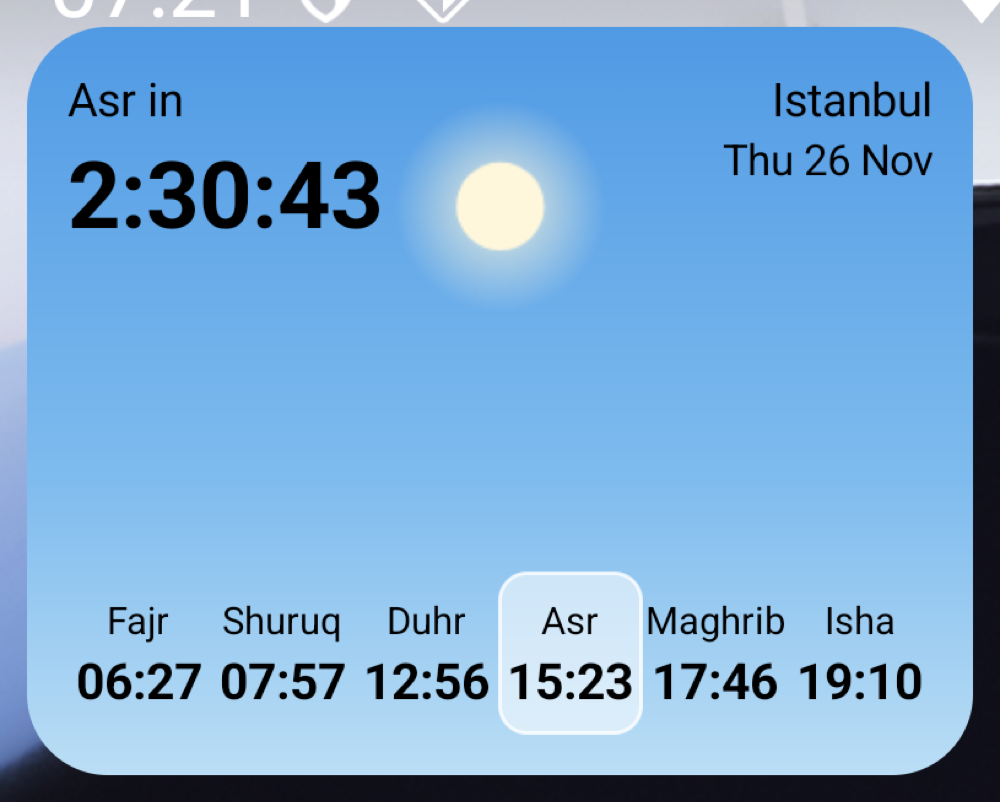
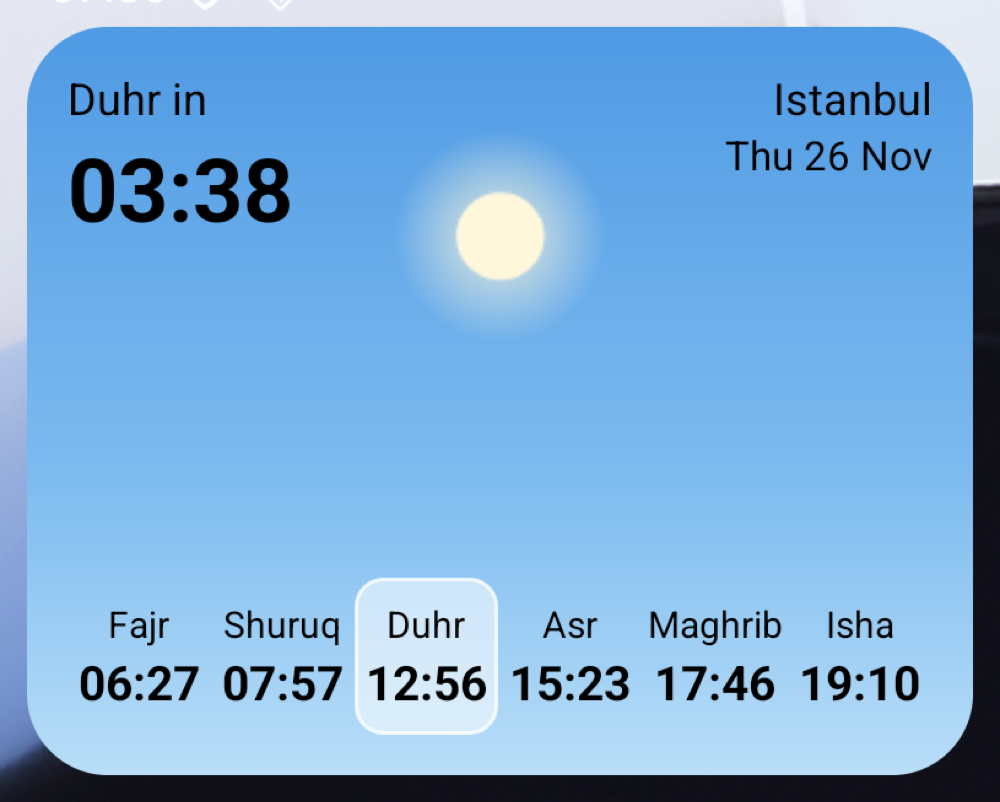
Lower the wide and medium sun a little (MEL-354) [record screenshots]
Horizon 0.52 → 0.61 and noon 0.24 → 0.28, still above the prayer row.

diff --git a/android/app/src/main/java/com/meltuhamy/londonsalah/widget/SkyPainter.kt b/android/app/src/main/java/com/meltuhamy/londonsalah/widget/SkyPainter.kt
@@ -42,21 +42,32 @@ object SkyPainter {
     )
 
     internal const val DEFAULT_SUN_HORIZON_Y = 0.9f
-    private const val SUN_NOON_Y = 0.24
+    internal const val DEFAULT_SUN_NOON_Y = 0.24
+
+    /** Wide (and iOS medium) widgets: a little lower at noon, still above the prayer row at sunset. */
+    internal const val WIDE_SUN_NOON_Y = 0.28
+    internal const val WIDE_SUN_HORIZON_Y = 0.61f
 
     /**
      * Maps the sun's vertical fraction from `WidgetSky`'s [0.24, 0.9] arc so
      * widgets with a bottom prayer row keep the rising and setting sun above it.
+     * [sunNoonY] and [sunHorizonY] are the mapped positions at midday and at
+     * the horizon; the default values leave the raw arc unchanged.
      */
-    internal fun sunY(rawY: Double, sunHorizonY: Float = DEFAULT_SUN_HORIZON_Y): Double =
-        if (sunHorizonY == DEFAULT_SUN_HORIZON_Y) rawY
-        else SUN_NOON_Y + (rawY - SUN_NOON_Y) * ((sunHorizonY - SUN_NOON_Y) / (DEFAULT_SUN_HORIZON_Y - SUN_NOON_Y))
+    internal fun sunY(
+        rawY: Double,
+        sunHorizonY: Float = DEFAULT_SUN_HORIZON_Y,
+        sunNoonY: Double = DEFAULT_SUN_NOON_Y
+    ): Double =
+        if (sunHorizonY == DEFAULT_SUN_HORIZON_Y && sunNoonY == DEFAULT_SUN_NOON_Y) rawY
+        else sunNoonY + (rawY - DEFAULT_SUN_NOON_Y) *
+            ((sunHorizonY - sunNoonY) / (DEFAULT_SUN_HORIZON_Y - DEFAULT_SUN_NOON_Y))
 
     /**
      * The sky at `widthDp` x `heightDp`, drawn at up to `density` pixels a dp.
      * `sunDp` is the sun's diameter: smaller on the narrow widgets.
-     * `sunHorizonY` is where the sun sits at sunrise and sunset, as a fraction
-     * of the widget's height (0.9 by default).
+     * `sunHorizonY` / `sunNoonY` are where the sun sits at sunrise/sunset and
+     * at midday, as fractions of the widget's height (0.9 and 0.24 by default).
      */
     fun paint(
         sky: SkyState,
@@ -64,7 +75,8 @@ object SkyPainter {
         heightDp: Int,
         density: Float,
         sunDp: Float,
-        sunHorizonY: Float = DEFAULT_SUN_HORIZON_Y
+        sunHorizonY: Float = DEFAULT_SUN_HORIZON_Y,
+        sunNoonY: Double = DEFAULT_SUN_NOON_Y
     ): Bitmap {
         val w = max(widthDp, 1)
         val h = max(heightDp, 1)
@@ -157,7 +169,7 @@ object SkyPainter {
         // Maghrib, though the arc keeps it 45 minutes either side.
         sky.sun?.takeIf { light.sunOn > 0 }?.let { sun ->
             val cx = (sun.x * width).toFloat()
-            val cy = (sunY(sun.y, sunHorizonY) * height).toFloat()
+            val cy = (sunY(sun.y, sunHorizonY, sunNoonY) * height).toFloat()
             val radius = sunDp / 2 * scale
             val base = colour(sun.colour)
             val on = light.sunOn.toFloat()

diff --git a/android/app/src/test/java/com/meltuhamy/londonsalah/widget/WidgetRenderTest.kt b/android/app/src/test/java/com/meltuhamy/londonsalah/widget/WidgetRenderTest.kt
@@ -341,19 +341,21 @@ class WidgetRenderTest {
 
     @Test
     fun `the wide widget keeps the setting sun above the bottom prayer row`() {
-        // Midday is unchanged; the horizon moves from 0.90 to 0.52 on WIDE only.
-        assertEquals(0.24, SkyPainter.sunY(0.24, 0.52f), 1e-6)
-        assertEquals(0.52, SkyPainter.sunY(0.90, 0.52f), 1e-6)
+        // Wide widgets map the raw [0.24, 0.90] arc onto [0.28, 0.61].
+        assertEquals(0.28, SkyPainter.sunY(0.24, SkyPainter.WIDE_SUN_HORIZON_Y, SkyPainter.WIDE_SUN_NOON_Y), 1e-6)
+        assertEquals(0.61, SkyPainter.sunY(0.90, SkyPainter.WIDE_SUN_HORIZON_Y, SkyPainter.WIDE_SUN_NOON_Y), 1e-6)
         assertEquals(0.90, SkyPainter.sunY(0.90), 1e-6)
+        assertEquals(0.24, SkyPainter.sunY(0.24), 1e-6)
 
         val sunset = draw(
             WidgetKind.WIDE, homeScreenSize(WidgetKind.WIDE), sky, nowMillis = PayloadFixture.SUNSET
         ).skyPicture()!!
-        // At SUNSET (x ≈ 0.93), the sun brightens y ≈ 0.53 relative to the left side of the same row,
-        // and no longer sits in the bottom prayer row (y ≈ 0.90).
+        // At SUNSET (x ≈ 0.93), the sun brightens y ≈ 0.61 relative to the left side of the same row,
+        // and no longer sits in the bottom prayer row (y ≈ 0.90). The solid disc
+        // stays above the labels, which start around 75% down.
         val xSun = (sunset.width * 0.93).toInt()
         val xClear = (sunset.width * 0.15).toInt()
-        val ySun = (sunset.height * 0.53).toInt()
+        val ySun = (sunset.height * 0.61).toInt()
         val yBottom = (sunset.height * 0.90).toInt()
         assertTrue(Color.red(sunset.getPixel(xSun, ySun)) > Color.red(sunset.getPixel(xClear, ySun)) + 15)
         assertTrue(

diff --git a/ios/App/PrayerWidgets/PrayerWidgetView.swift b/ios/App/PrayerWidgets/PrayerWidgetView.swift
@@ -35,7 +35,11 @@ struct WidgetBackground: View {
 
     var body: some View {
         if let sky = colors.sky {
-            SkyBackground(sky: sky, sunHorizonY: family == .systemMedium ? 0.52 : 0.9)
+            SkyBackground(
+                sky: sky,
+                sunHorizonY: family == .systemMedium ? 0.61 : 0.9,
+                sunNoonY: family == .systemMedium ? 0.28 : 0.24
+            )
         } else {
             colors.background
         }
@@ -49,6 +53,7 @@ struct WidgetBackground: View {
 struct SkyBackground: View {
     let sky: SkyState
     var sunHorizonY: Double = 0.9
+    var sunNoonY: Double = 0.24
 
     /** Fractions across and down, a radius in points and a strength. */
     private static let stars: [(x: Double, y: Double, r: Double, o: Double)] = [
@@ -134,9 +139,9 @@ struct SkyBackground: View {
                 // The sun at the card's strength: none before Shuruq, fading
                 // after Maghrib, though the arc keeps it 45 minutes either side.
                 if let sun = sky.sun, sky.light.sunOn > 0 {
-                    let sunY = sunHorizonY == 0.9
+                    let sunY = (sunHorizonY == 0.9 && sunNoonY == 0.24)
                         ? sun.y
-                        : 0.24 + (sun.y - 0.24) * ((sunHorizonY - 0.24) / (0.9 - 0.24))
+                        : sunNoonY + (sun.y - 0.24) * ((sunHorizonY - sunNoonY) / (0.9 - 0.24))
                     Circle()
                         .fill(Color(hex: sun.colour))
                         .frame(width: 26, height: 26)

diff --git a/android/app/src/main/java/com/meltuhamy/londonsalah/widget/WidgetRenderer.kt b/android/app/src/main/java/com/meltuhamy/londonsalah/widget/WidgetRenderer.kt
@@ -195,7 +195,8 @@ object WidgetRenderer {
                 heightDp,
                 context.resources.displayMetrics.density,
                 sunDp = if (narrow) 20f else 26f,
-                sunHorizonY = if (kind == WidgetKind.WIDE) 0.52f else SkyPainter.DEFAULT_SUN_HORIZON_Y
+                sunHorizonY = if (kind == WidgetKind.WIDE) SkyPainter.WIDE_SUN_HORIZON_Y else SkyPainter.DEFAULT_SUN_HORIZON_Y,
+                sunNoonY = if (kind == WidgetKind.WIDE) SkyPainter.WIDE_SUN_NOON_Y else SkyPainter.DEFAULT_SUN_NOON_Y
             )
         )
         views.setInt(R.id.sky_background, "setImageAlpha", config.alpha())
